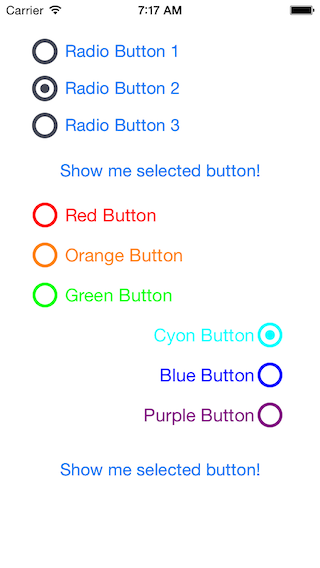
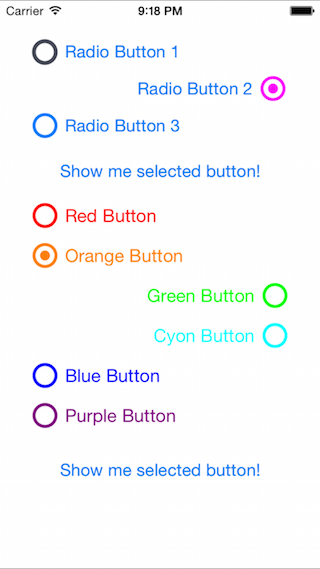
Add Interface Builder support

diff --git a/DLRadioButton/DLRadioButton.m b/DLRadioButton/DLRadioButton.m
@@ -1,14 +1,7 @@
-//
-//  DLRadioButton.m
-//  DLRadioButtonExample
-//
-//  Created by Liu, Xingruo on 8/22/14.
-//
-
 #import "DLRadioButton.h"
 
-static CGFloat defaultButtonSideLength = 30.0;
-static CGFloat defaultRightMarginWidth = 5.0;
+static CGFloat defaultSize = 30.0;
+static CGFloat defaultMarginWidth = 5.0;
 static CGFloat defaultIndicatorRadius = 5.0;
 static CGFloat defaultCircleRadius = 11;
 static CGFloat defaultStrokeWidh = 3.0;
@@ -21,26 +14,26 @@ static CGFloat defaultStrokeWidh = 3.0;
 
 #pragma mark - Helpers
 
-- (void)initilizeButton {
-    if (!self.ButtonIcon) {
-        self.ButtonIcon = [self drawIconWithSelection:NO];
+- (void)drawButton {
+    if (!self.icon) {
+        self.icon = [self drawIconWithSelection:NO];
     }
-    if (!self.ButtonIconSelected) {
-        self.ButtonIconSelected = [self drawIconWithSelection:YES];
+    if (!self.iconSelected) {
+        self.iconSelected = [self drawIconWithSelection:YES];
     }
     if (![self imageForState:UIControlStateNormal] || ![self imageForState:UIControlStateSelected]) {
-        [self setImage:self.ButtonIcon forState:UIControlStateNormal];
-        [self setImage:self.ButtonIconSelected forState:UIControlStateSelected];
+        [self setImage:self.icon forState:UIControlStateNormal];
+        [self setImage:self.iconSelected forState:UIControlStateSelected];
     }
-    CGFloat rightMarginWidth = self.rightMarginWidth ? self.rightMarginWidth : defaultRightMarginWidth;
+    CGFloat marginWidth = self.marginWidth ? self.marginWidth : defaultMarginWidth;
     if (self.iconOnRight) {
-        self.imageEdgeInsets = UIEdgeInsetsMake(0, self.frame.size.width - (self.ButtonIcon.size.width + rightMarginWidth), 0, 0);
-        self.titleEdgeInsets = UIEdgeInsetsMake(0, -self.ButtonIcon.size.width, 0, rightMarginWidth + self.ButtonIcon.size.width);
+        self.imageEdgeInsets = UIEdgeInsetsMake(0, self.frame.size.width - self.icon.size.width, 0, 0);
+        self.titleEdgeInsets = UIEdgeInsetsMake(0, -self.icon.size.width, 0, marginWidth + self.icon.size.width);
     } else {
-        self.titleEdgeInsets = UIEdgeInsetsMake(0, rightMarginWidth, 0, 0);
+        self.titleEdgeInsets = UIEdgeInsetsMake(0, marginWidth, 0, 0);
     }
     [self chainButtons];
-    if(![[self allTargets] containsObject:self]) {
+    if (![[self allTargets] containsObject:self]) {
         [super addTarget:self action:@selector(touchDown) forControlEvents:UIControlEventTouchDown];
     }
 }
@@ -48,26 +41,26 @@ static CGFloat defaultStrokeWidh = 3.0;
 - (UIImage *)drawIconWithSelection:(BOOL)selected {
     UIColor *circleColor = self.circleColor ? self.circleColor : self.titleLabel.textColor;
     UIColor *indicatorColor = self.indicatorColor ? self.indicatorColor : self.titleLabel.textColor;
-    CGFloat buttonSideLength = self.buttonSideLength ? self.buttonSideLength : defaultButtonSideLength;
+    CGFloat size = self.size ? self.size : defaultSize;
     CGFloat indicatorRadius = self.indicatorRadius ? self.indicatorRadius : defaultIndicatorRadius;
     CGFloat circleRadius = self.circleRadius ? self.circleRadius : defaultCircleRadius;
     CGFloat strokeWidth = self.circleStrokeWidth ? self.circleStrokeWidth : defaultStrokeWidh;
     
-    CGRect rect = CGRectMake(0.0, 0.0, buttonSideLength, buttonSideLength);
+    CGRect rect = CGRectMake(0.0, 0.0, size, size);
     CGContextRef context = UIGraphicsGetCurrentContext();
     UIGraphicsPushContext(context);
     UIGraphicsBeginImageContextWithOptions(rect.size, NO, 0.0);
     
     if (selected) {
-        // indicator Drawing
-        UIBezierPath* indicatorPath = [UIBezierPath bezierPathWithOvalInRect: CGRectMake(buttonSideLength/2 - indicatorRadius, buttonSideLength/2 - indicatorRadius, indicatorRadius*2, indicatorRadius*2)];
+        // draw indicator
+        UIBezierPath* indicatorPath = [UIBezierPath bezierPathWithOvalInRect: CGRectMake(size/2 - indicatorRadius, size/2 - indicatorRadius, indicatorRadius*2, indicatorRadius*2)];
         [indicatorColor setFill];
         [indicatorPath fill];
         CGContextAddPath(context, indicatorPath.CGPath);
     }
     
-    // circle Drawing
-    UIBezierPath* circlePath = [UIBezierPath bezierPathWithOvalInRect: CGRectMake(buttonSideLength/2 - circleRadius, buttonSideLength/2 - circleRadius, circleRadius*2, circleRadius*2)];
+    // draw circle
+    UIBezierPath* circlePath = [UIBezierPath bezierPathWithOvalInRect: CGRectMake(size/2 - circleRadius, size/2 - circleRadius, circleRadius*2, circleRadius*2)];
     [circleColor setStroke];
     circlePath.lineWidth = strokeWidth;
     [circlePath stroke];
@@ -90,16 +83,12 @@ static CGFloat defaultStrokeWidh = 3.0;
     }
 }
 
-- (void)touchDown
-{
+- (void)touchDown {
     [self setSelected:YES];
 }
 
-#pragma mark - UIView
-
-- (void)drawRect:(CGRect)rect {
-    [super drawRect:rect];
-    [self initilizeButton];
+- (void)prepareForInterfaceBuilder {
+    [self drawButton];
 }
 
 #pragma mark - DLRadiobutton
@@ -132,6 +121,13 @@ static CGFloat defaultStrokeWidh = 3.0;
     if (selected) {
         [self deselectOtherButtons];
     }
+}
+
+#pragma mark - UIView
+
+- (void)drawRect:(CGRect)rect {
+    [super drawRect:rect];
+    [self drawButton];
 }
 
 @end

diff --git a/DLRadioButtonExample/DLRadioButtonExample/DLDemoViewController.m b/DLRadioButtonExample/DLRadioButtonExample/DLDemoViewController.m
@@ -1,11 +1,3 @@
-//
-//  DLDemoViewController.m
-//  DLRadioButtonExample
-//
-//  Created by Liu, Xingruo on 8/25/14.
-//  Copyright (c) 2014 Xingruo Liu. All rights reserved.
-//
-
 #import "DLDemoViewController.h"
 #import "DLRadioButton.h"
 
@@ -38,17 +30,10 @@
 - (void)viewDidLoad {
     [super viewDidLoad];
     
-    // set up button icons
-    for (DLRadioButton *radioButton in self.topRadioButtons) {
-        radioButton.ButtonIcon = [UIImage imageNamed:@"RadioButton"];
-        radioButton.ButtonIconSelected = [UIImage imageNamed:@"RadioButtonSelected"];
-    }
-    
     // programmatically add buttons
-    
     // first button
     DLRadioButton *firstRadioButton = [[DLRadioButton alloc] initWithFrame:CGRectMake(30, 200, self.view.frame.size.width - 60, 30)];
-    firstRadioButton.buttonSideLength = 30;
+    firstRadioButton.size = 30;
     [firstRadioButton setTitle:@"Red Button" forState:UIControlStateNormal];
     [firstRadioButton setTitleColor:[UIColor redColor] forState:UIControlStateNormal];
     firstRadioButton.circleColor = [UIColor redColor];
@@ -63,13 +48,13 @@
     NSMutableArray *otherButtons = [NSMutableArray new];
     for (UIColor *buttonColor in buttonColors) {
         // customize button
-        DLRadioButton *radioButton = [[DLRadioButton alloc] initWithFrame:CGRectMake(30, 240+40*i, self.view.frame.size.width - 60, 30)];
-        radioButton.buttonSideLength = 30;
+        DLRadioButton *radioButton = [[DLRadioButton alloc] initWithFrame:CGRectMake(30, 240 + 40 * i, self.view.frame.size.width - 60, 30)];
+        radioButton.size = 30;
         [radioButton setTitle:[colorNames[i] stringByAppendingString:@" Button"] forState:UIControlStateNormal];
         [radioButton setTitleColor:buttonColor forState:UIControlStateNormal];
         radioButton.circleColor = buttonColor;
         radioButton.indicatorColor = buttonColor;
-        if (i > 1) {
+        if (i == 1 || i == 2) {
             // put icon on the right side
             radioButton.iconOnRight = YES;
             radioButton.contentHorizontalAlignment = UIControlContentHorizontalAlignmentRight;
@@ -83,11 +68,6 @@
     
     firstRadioButton.otherButtons = otherButtons;
     self.buttomRadioButtons = [@[firstRadioButton] arrayByAddingObjectsFromArray:otherButtons];
-}
-
-- (void)didReceiveMemoryWarning {
-    [super didReceiveMemoryWarning];
-    // Dispose of any resources that can be recreated.
 }
 
 @end

diff --git a/DLRadioButton/DLRadioButton.h b/DLRadioButton/DLRadioButton.h
@@ -1,15 +1,9 @@
-//
-//  DLRadioButton.h
-//  DLRadioButtonExample
-//
-//  Created by Liu, Xingruo on 8/22/14.
-//
-
 #import <UIKit/UIKit.h>
 
 /**
  A hightly customizable Radio Button for iOS
 */
+IB_DESIGNABLE
 @interface DLRadioButton : UIButton
 
 /**@name Properties*/
@@ -20,48 +14,49 @@
 /**
  Image for radio button (optional)
 */
-@property (nonatomic) UIImage *ButtonIcon;
+@property (nonatomic) IBInspectable UIImage *icon;
 /**
  Image for radio button when selected (optional)
 */
-@property (nonatomic) UIImage *ButtonIconSelected;
+@property (nonatomic) IBInspectable UIImage *iconSelected;
 /**
- Height of the radio button
+ Size of the radio button
 */
-@property (nonatomic) CGFloat buttonSideLength;
+@property (nonatomic) IBInspectable CGFloat size;
 /**
  Margin width between button icon and button title
  */
-@property (nonatomic) CGFloat rightMarginWidth;
+@property (nonatomic) IBInspectable CGFloat marginWidth;
 /**
  Color of the circle button icon
 */
-@property (nonatomic) UIColor *circleColor;
+@property (nonatomic) IBInspectable UIColor *circleColor;
 /**
  Radius of the circle button icon
 */
-@property (nonatomic) CGFloat circleRadius;
+@property (nonatomic) IBInspectable CGFloat circleRadius;
 /**
  Stroke width of circle button icon
  */
-@property (nonatomic) CGFloat circleStrokeWidth;
+@property (nonatomic) IBInspectable CGFloat circleStrokeWidth;
 /**
  Color of selection indicator
 */
-@property (nonatomic) UIColor *indicatorColor;
+@property (nonatomic) IBInspectable UIColor *indicatorColor;
 /**
  Radius of selection indicator
 */
-@property (nonatomic) CGFloat indicatorRadius;
+@property (nonatomic) IBInspectable CGFloat indicatorRadius;
 /**
  Whether icon on the right side
 */
-@property (nonatomic) BOOL iconOnRight;
+@property (nonatomic) IBInspectable BOOL iconOnRight;
 
 /**
  Clear selection for all the buttons
 */
 - (void)deselectOtherButtons;
+
 /**
  @return Current selected button
 */

diff --git a/DLRadioButtonExample/DLRadioButtonExample/DLDemoViewController.h b/DLRadioButtonExample/DLRadioButtonExample/DLDemoViewController.h
@@ -1,11 +1,3 @@
-//
-//  DLDemoViewController.h
-//  DLRadioButtonExample
-//
-//  Created by Liu, Xingruo on 8/25/14.
-//  Copyright (c) 2014 Xingruo Liu. All rights reserved.
-//
-
 #import <UIKit/UIKit.h>
 
 @interface DLDemoViewController : UIViewController

diff --git a/README.md b/README.md
@@ -6,80 +6,35 @@
 
 ## Preview
 
-![screenshot1](DLRadioButton_screenshot1.png)![screenshot2](DLRadioButton_screenshot2.png)
+![screenshot1](DLRadioButton_screenshot1.png) ![screenshot2](DLRadioButton_screenshot2.png)
 
 ## Usage
 
 ####To run the example project, clone the repo, and run `pod install` from the Example directory first.
 
-####To use this Pod from interface builder:
+####To add radio buttons in interface builder:
 
-* Put some UIButtons onto a View
-* Change the UIButtons' type to "custom"
+1.  Put some UIButtons onto a View and change the UIButtons' type to "custom".
 
-![change UIButton Type](change_UIButton_type.png)
+	![change UIButton Type](change_UIButton_type.png)
 
-* Set the UIButtons' class to "DLRadioButton"
+2.  Set the UIButtons' class to "DLRadioButton".
 
-![change UIButton Class](change_UIButton_class.png)
+	![change UIButton Class](change_UIButton_class.png)
 
-* Set "otherButtons" outlet
+3.	Set "otherButtons" outlet.
 
-![set otherButtons outlet](set_otherButtons_outlet.png)
-
-####To use this Pod from code:
-
-    #import "DLRadioButton.h"
-
-    // set up button icons
-    for (DLRadioButton *radioButton in self.topRadioButtons) {
-        radioButton.ButtonIcon = [UIImage imageNamed:@"RadioButton"];
-        radioButton.ButtonIconSelected = [UIImage imageNamed:@"RadioButtonSelected"];
-    }
-    
-    // programmatically add buttons
-    
-    // first button
-    DLRadioButton *firstRadioButton = [[DLRadioButton alloc] initWithFrame:CGRectMake(30, 200, self.view.frame.size.width - 60, 30)];
-    firstRadioButton.buttonSideLength = 30;
-    [firstRadioButton setTitle:@"Red Button" forState:UIControlStateNormal];
-    [firstRadioButton setTitleColor:[UIColor redColor] forState:UIControlStateNormal];
-    firstRadioButton.circleColor = [UIColor redColor];
-    firstRadioButton.indicatorColor = [UIColor redColor];
-    firstRadioButton.contentHorizontalAlignment = UIControlContentHorizontalAlignmentLeft;
-    
-    // other buttons
-    [self.view addSubview:firstRadioButton];
-    NSArray *colorNames = @[@"Orange", @"Green", @"Cyon", @"Blue", @"Purple"];
-    NSArray *buttonColors = @[[UIColor orangeColor], [UIColor greenColor], [UIColor cyanColor], [UIColor blueColor], [UIColor purpleColor]];
-    NSInteger i = 0;
-    NSMutableArray *otherButtons = [NSMutableArray new];
-    for (UIColor *buttonColor in buttonColors) {
-        // customize button
-        DLRadioButton *radioButton = [[DLRadioButton alloc] initWithFrame:CGRectMake(30, 240+40*i, self.view.frame.size.width - 60, 30)];
-        radioButton.buttonSideLength = 30;
-        [radioButton setTitle:[colorNames[i] stringByAppendingString:@" Button"] forState:UIControlStateNormal];
-        [radioButton setTitleColor:buttonColor forState:UIControlStateNormal];
-        radioButton.circleColor = buttonColor;
-        radioButton.indicatorColor = buttonColor;
-        if (i > 1) {
-            // put icon on the right side
-            radioButton.iconOnRight = YES;
-            radioButton.contentHorizontalAlignment = UIControlContentHorizontalAlignmentRight;
-        } else {
-            radioButton.contentHorizontalAlignment = UIControlContentHorizontalAlignmentLeft;
-        }
-        [otherButtons addObject:radioButton];
-        [self.view addSubview:radioButton];
-        i++;
-    }
-    
-    firstRadioButton.otherButtons = otherButtons;
+	![set otherButtons outlet](set_otherButtons_outlet.png)
 
 ####To customize DLRadiobutton:
 
-There are a bunch of properties that you can set for your Radio Button, please use the following picture for reference:
-![DLRadioButton](DLRadioButton.png)
+*	Simply set properties directly in Interface Builder.
+
+	![design DLButton](design_DLRadioButton.png)
+
+*	Property reference:
+	
+	![DLRadioButton](DLRadioButton.png)
 
 ## Requirements
 
@@ -94,7 +49,7 @@ it, simply add the following line to your Podfile:
 
 ## Author
 
-Xingruo Liu, xingruo.liu@gmail.com
+David Liu, xingruo.liu@gmail.com
 
 ## License
 
